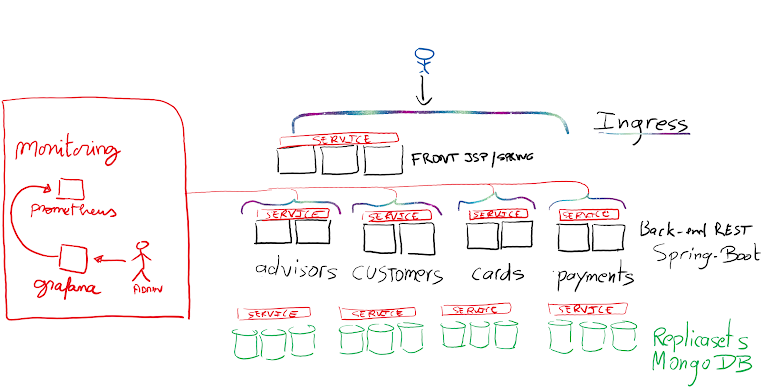
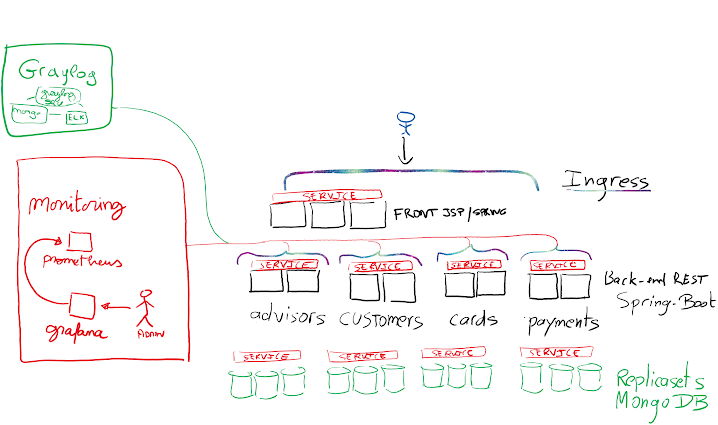
Amélioration readme

diff --git a/readme.md b/readme.md
@@ -34,9 +34,13 @@ Comme base de données conteneur ready, nous avons choisi mongoDB car nous l'uti
 Dans un premier temps nous avons décidé de conserver le front jsp et nous l'avons modifié pour qu'il invoque les micro-services.
 Ensuite, nous avons attaqué la partie déploiement sur Kubernetes
 
+## URL
+
+Application : http://belem42.hackathon-container.com/containerbank/
+Grafana : http://grafana-belem42.hackathon-container.com
 
 
-## Architecture Technique
+## Architecture Technique cible
 
 <p align="center">
  <img src="https://raw.githubusercontent.com/bnpinel/belem42/master/readme_archi.png"
@@ -58,11 +62,13 @@ Ensuite, nous avons attaqué la partie déploiement sur Kubernetes
 - [X] `Monitoring` : monitorer chaque appels et leur durée<br/>
 - [ ] `Logging` : centraliser les logs de l'application
 
+( ne pas mettre d'accents dans les champs texte ;) )
+
 
 ## Ce que l'on aurait aimé faire avec plus de temps
 
 - Mettre en place des volumes persistants sur MongoDB
-- Mettre en oeuvre des replicaset MongoDB
+- Mettre en oeuvre des replicaset MongoDB par back-end (pour l'instant un seul conteneur mongo)
 - Remplacer le front JSP/spring par un front statique (Angular)
 - Mettre en place de l'autoscalling
 - Centraliser les logs avec Graylog
